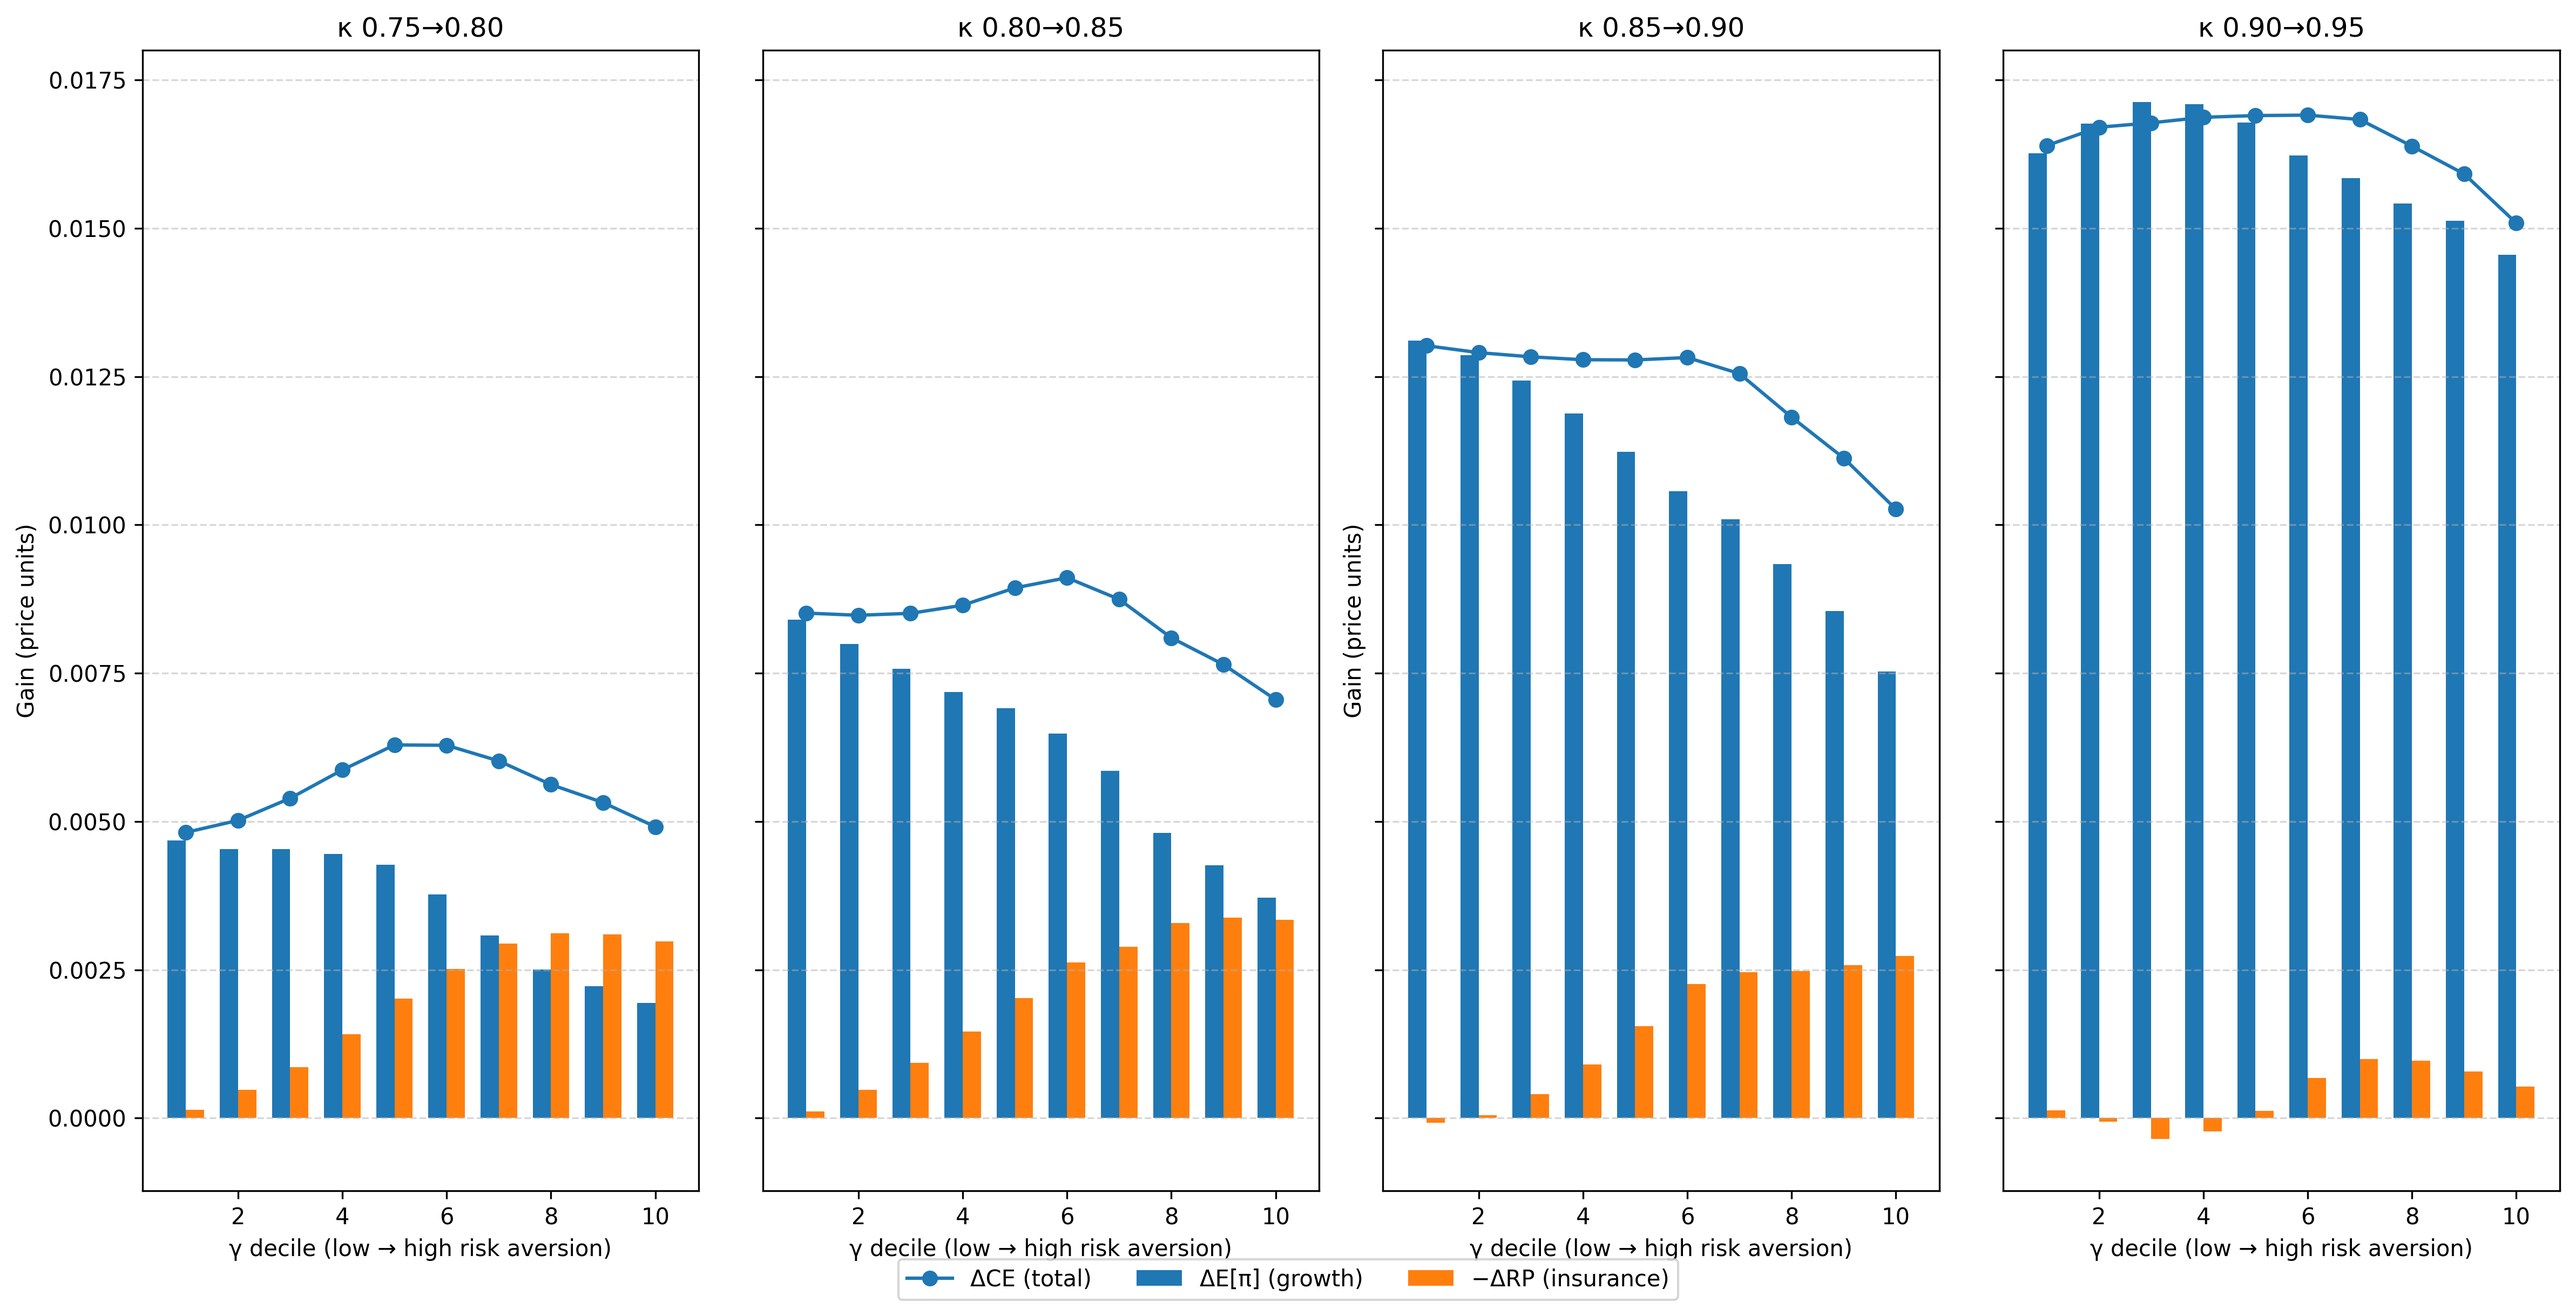
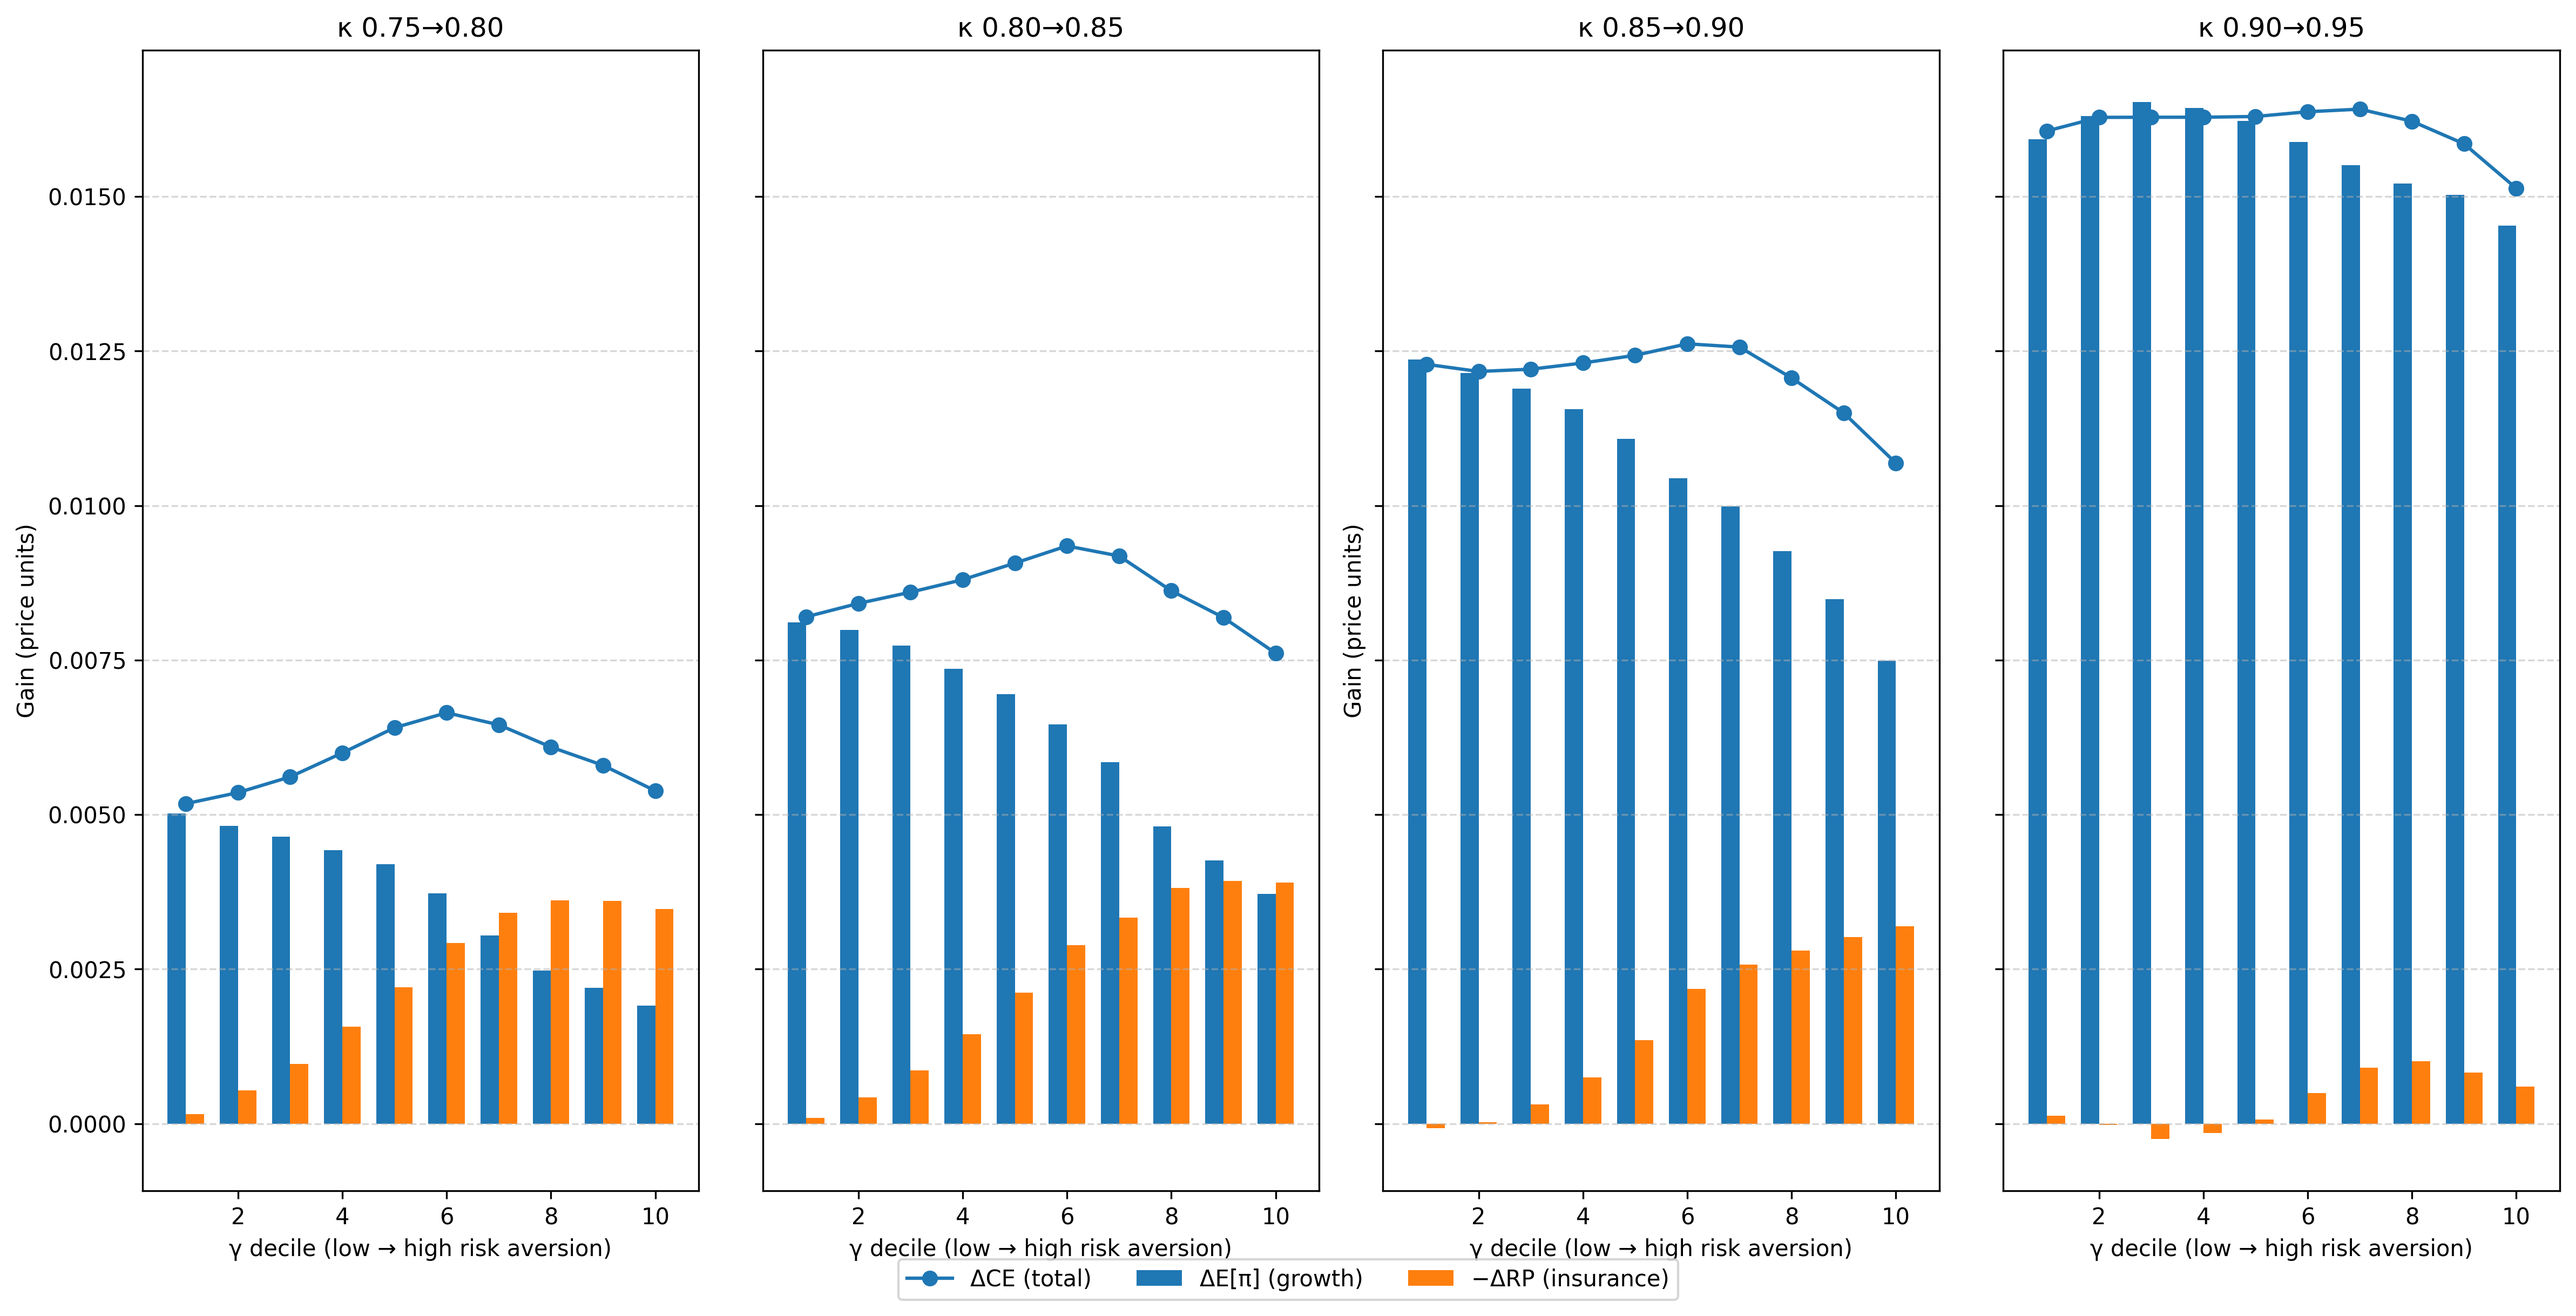
risk aversion added

diff --git a/code/python_theoritical_model/storage_subsidy_income_gain(with_total_storage_share).py b/code/python_theoritical_model/storage_subsidy_income_gain(with_total_storage_share).py
@@ -4,13 +4,13 @@
 Rows:     κ in {0.95, 0.90, 0.85, 0.80} (top -> bottom)
 Columns:  Beta variance σ² in {0.05, 0.10, 0.15, 0.20} (left -> right)
 
-Within each subplot:
-- Solid line (left y-axis): % mean income gain vs no-storage (village average, heterogeneous γ)
-- Dashed line (left y-axis): % mean income gain if all farmers were risk-neutral (γ=0)
-- Histogram bars (right y-axis): Total Storage Share = sum_i s_i^* (0..100) under heterogeneous γ
+Within each subplot (left y-axis only):
+- Black solid:   % mean income gain (village avg) with γ_i ~ Unif[0,10]
+- Blue dashed:   % mean income gain (village avg) with γ_i ~ Unif[0,5]
+- Light-blue -. : % mean income gain if all farmers were risk-neutral (γ=0)
 
 Simulation:
-- R = 400 worlds; N = 100 farmers; γ ~ Beta(1,5) scaled to [0,10]
+- R = 20000 worlds; N = 100 farmers
 - Strict feasibility: Beta(μ, σ²) only when σ² < μ(1-μ)
 """
 
@@ -40,20 +40,24 @@ os.makedirs(target_dir, exist_ok=True)
 # -----------------------------
 REUSE_WORLDS = True
 DPI = 300
-FIG_PATH = os.path.join(target_dir, "gainpct_grid_4x4_zero_gap_total_storage_with_RN.png")
+FIG_PATH = os.path.join(
+    target_dir,
+    "gainpct_grid_4x4_zero_gap_three_curves.png"
+)
 
 rng = np.random.default_rng(314)
 
 # Farmers & worlds
 N = 100
-gammas = rng.uniform(0.0, 10.0, size=N); gammas.sort()
-# gammas = 10.0 * rng.beta(1, 5, size=N); gammas.sort()  # heterogeneous risk aversion
+# Two heterogeneous γ draws (fixed across panels for comparability)
+gammas_10 = rng.uniform(0.0, 10.0, size=N); gammas_10.sort()
+gammas_5  = rng.uniform(0.0,  5.0, size=N); gammas_5.sort()
 
 R = 20000  # increase for smoother curves
 
 # s*(θ1,γ) interpolation grid
 theta1_grid = np.linspace(0.01, 0.99, 24)
-gamma_grid  = np.linspace(0.0, 10.0, 24)
+gamma_grid  = np.linspace(0.0, 10.0, 24)   # covers both Unif[0,10] and Unif[0,5]
 
 # Quadrature nodes on [0,1] for Eθ2 when solving s*
 nodes, weights = leggauss(12)
@@ -73,9 +77,12 @@ col_base_ranges = {
 }
 
 # Styles
-LINE_STYLE = dict(color="#4D4D4D", marker="o", linewidth=2.0, markersize=3, label="Total gain (heterogeneous γ)")
-LINE_RN_STYLE = dict(color="#1f77b4", linestyle="--", linewidth=2.0, marker=None, label="Risk-neutral gain (γ=0)")
-BAR_TOTAL  = dict(color="#2CA02C", alpha=0.55, label="Total storage share")
+LINE_HET10 = dict(color="#000000", linestyle="-",  marker="o",  linewidth=2.0, markersize=3,
+                  label="Heterogeneous γ ~ Unif[0,10]")
+LINE_HET5  = dict(color="#1f77b4", linestyle="--", marker=None, linewidth=2.0,
+                  label="Heterogeneous γ ~ Unif[0,5]")
+LINE_RN    = dict(color="#6baed6", linestyle="-.", marker=None, linewidth=2.0,
+                  label="Risk-neutral (γ=0)")
 
 # -----------------------------
 # Helpers
@@ -160,15 +167,15 @@ def build_mu1_grid(sigma2):
 # -----------------------------
 # Core computation for ZERO-GAP (μ2 = μ1)
 # -----------------------------
-def compute_zero_gap_gain_and_total_storage(kappa, sigma2, mu1_grid):
+def compute_zero_gap_gains_three_series(kappa, sigma2, mu1_grid, gammas_hi, gammas_lo):
     """
-    For fixed (kappa, sigma2) and μ2=μ1, compute:
-    - total % gain vs no-storage (village mean, heterogeneous γ)
-    - risk-neutral % gain vs no-storage (as-if all farmers had γ=0)
-    - Total Storage Share = E_r[ ∑_i s_i^*(θ1_r, γ_i) ] in [0, 100]
-    Returns (mu_vec, total_pct, rn_pct, total_storage_units).
+    For fixed (kappa, sigma2) and μ2=μ1, compute three gain series:
+    - total_pct_hi : heterogeneous γ ~ Unif[0,10]
+    - total_pct_lo : heterogeneous γ ~ Unif[0,5]
+    - rn_pct       : all farmers risk-neutral (γ=0)
+    Returns (mu_vec, total_pct_hi, total_pct_lo, rn_pct).
     """
-    mu_list, total_list, rn_list, storage_list = [], [], [], []
+    mu_list, hi_list, lo_list, rn_list = [], [], [], []
 
     for mu in mu1_grid:
         ab = alpha_beta_from_strict(mu, sigma2)
@@ -195,10 +202,10 @@ def compute_zero_gap_gain_and_total_storage(kappa, sigma2, mu1_grid):
         p1s = 1.0 / (1.0 + theta1_worlds)
         mean_income_no = float(np.mean(p1s))
 
-        # With storage: compute village-average gain and total storage share
-        total_delta = 0.0
-        total_delta_rn = 0.0
-        total_storage_units = 0.0  # sum_i s_i^* per world, then average
+        # Accumulators
+        total_delta_hi = 0.0  # γ~Unif[0,10]
+        total_delta_lo = 0.0  # γ~Unif[0,5]
+        total_delta_rn = 0.0  # γ=0
 
         for r_idx in range(R):
             t1 = theta1_worlds[r_idx]
@@ -206,36 +213,40 @@ def compute_zero_gap_gain_and_total_storage(kappa, sigma2, mu1_grid):
             p1 = 1.0 / (1.0 + t1)
             p2 = 1.0 / (1.0 + t2)
 
-            # Heterogeneous γ storage vector
-            s_star_vec = interp2_vec(theta1_grid, gamma_grid, s_cache, t1, gammas)
-            incomes = (1.0 - s_star_vec) * p1 + s_star_vec * kappa * p2
-            dy = incomes - p1
-            total_delta += float(np.mean(dy))
-            total_storage_units += float(np.sum(s_star_vec))  # sum_i s_i^*
+            # Heterogeneous γ ~ Unif[0,10]
+            s_star_hi = interp2_vec(theta1_grid, gamma_grid, s_cache, t1, gammas_hi)
+            incomes_hi = (1.0 - s_star_hi) * p1 + s_star_hi * kappa * p2
+            total_delta_hi += float(np.mean(incomes_hi - p1))
 
-            # Risk-neutral (γ=0) benchmark: same prices/world, common s*∈{0,1}
+            # Heterogeneous γ ~ Unif[0,5]
+            s_star_lo = interp2_vec(theta1_grid, gamma_grid, s_cache, t1, gammas_lo)
+            incomes_lo = (1.0 - s_star_lo) * p1 + s_star_lo * kappa * p2
+            total_delta_lo += float(np.mean(incomes_lo - p1))
+
+            # Risk-neutral (γ=0): common s*∈{0,1}
             s_star_rn = solve_s(t1, 0.0, kappa, theta2_nodes, w_nodes)  # scalar 0 or 1
             income_rn = (1.0 - s_star_rn) * p1 + s_star_rn * kappa * p2
-            dy_rn = income_rn - p1
-            total_delta_rn += float(dy_rn)  # identical across farmers
+            total_delta_rn += float(income_rn - p1)
 
-        total_delta /= R
+        # Average across worlds
+        total_delta_hi /= R
+        total_delta_lo /= R
         total_delta_rn /= R
-        total_storage_units /= R  # expected sum in [0, N]; N=100 here
 
-        # Convert to percentage for gains; keep storage in 0..100 units
-        total_pct = 100.0 * total_delta / (mean_income_no + 1e-12)
-        rn_pct = 100.0 * total_delta_rn / (mean_income_no + 1e-12)
+        # Convert to percentage gains
+        pct_hi = 100.0 * total_delta_hi / (mean_income_no + 1e-12)
+        pct_lo = 100.0 * total_delta_lo / (mean_income_no + 1e-12)
+        pct_rn = 100.0 * total_delta_rn / (mean_income_no + 1e-12)
 
         mu_list.append(mu)
-        total_list.append(total_pct)
-        rn_list.append(rn_pct)
-        storage_list.append(total_storage_units)
+        hi_list.append(pct_hi)
+        lo_list.append(pct_lo)
+        rn_list.append(pct_rn)
 
     return (np.array(mu_list),
-            np.array(total_list),
-            np.array(rn_list),
-            np.array(storage_list))
+            np.array(hi_list),
+            np.array(lo_list),
+            np.array(rn_list))
 
 # -----------------------------
 # Build all data then plot
@@ -247,21 +258,20 @@ def run_and_plot():
     for r_idx, kappa in enumerate(kappa_rows):
         for c_idx, sigma2 in enumerate(sigma2_cols):
             mu1_grid = build_mu1_grid(sigma2)
-            mu_vec, total_pct, rn_pct, storage_units = compute_zero_gap_gain_and_total_storage(
-                kappa, sigma2, mu1_grid
+            mu_vec, pct_hi, pct_lo, pct_rn = compute_zero_gap_gains_three_series(
+                kappa, sigma2, mu1_grid, gammas_10, gammas_5
             )
             results[(r_idx, c_idx)] = {
                 "mu": mu_vec,
-                "total": total_pct,       # heterogeneous γ (left axis)
-                "rn": rn_pct,             # risk-neutral γ=0 (left axis)
-                "storage": storage_units  # right axis, 0..100
+                "het10": pct_hi,    # black solid
+                "het5":  pct_lo,    # blue dashed
+                "rn":    pct_rn,    # light-blue dash-dot
             }
-            if total_pct.size > 0:
-                all_gain_values.append(total_pct)
-            if rn_pct.size > 0:
-                all_gain_values.append(rn_pct)
+            for arr in (pct_hi, pct_lo, pct_rn):
+                if arr.size > 0:
+                    all_gain_values.append(arr)
 
-    # Global y-limits for the gain lines (left axis), covering both series
+    # Global y-limits for the gain lines (left axis), covering all series
     if len(all_gain_values) > 0:
         all_gains = np.concatenate(all_gain_values)
         y_lo, y_hi = float(np.min(all_gains)), float(np.max(all_gains))
@@ -283,21 +293,17 @@ def run_and_plot():
             ax = axes[r_idx, c_idx]
             data = results[(r_idx, c_idx)]
             mu = data["mu"]
-            total = data["total"]
-            rn = data["rn"]
-            storage_units = data["storage"]
+            het10 = data["het10"]
+            het5  = data["het5"]
+            rn    = data["rn"]
 
-            # Left axis: gain lines
             ax.set_xlim(0.05, 0.95)
             ax.set_ylim(*y_lim)
-            ax.plot(mu, total, **LINE_STYLE, zorder=3)
-            ax.plot(mu, rn, **LINE_RN_STYLE, zorder=3)
 
-            # Right axis: total storage share bars (0..100) under heterogeneous γ
-            ax2 = ax.twinx()
-            ax2.set_ylim(0.0, 100.0)
-            barw = 0.02
-            ax2.bar(mu, storage_units, width=barw, **BAR_TOTAL, zorder=2)
+            # Three curves
+            ax.plot(mu, het10, **LINE_HET10, zorder=3)
+            ax.plot(mu, het5,  **LINE_HET5,  zorder=3)
+            ax.plot(mu, rn,    **LINE_RN,    zorder=3)
 
             # Titles & labels
             if r_idx == 0:
@@ -309,31 +315,26 @@ def run_and_plot():
                 ax.set_ylabel("")
             ax.set_xlabel(r"$\mu_1$ (mean of $\theta_1$; $\mu_2=\mu_1$)", fontsize=9)
 
-            # Right-axis label shown on outermost column only
-            if c_idx == len(sigma2_cols) - 1:
-                ax2.set_ylabel("Total storage share (0–100)", fontsize=10)
-            else:
-                ax2.set_yticklabels([])
-
             ax.grid(True, alpha=0.35, linewidth=0.7)
 
     # Figure legend
     legend_handles = [
-        Line2D([0], [0], **{k: LINE_STYLE[k] for k in ["color", "marker", "linewidth", "markersize"]},
-               label="Total gain (heterogeneous γ)"),
-        Line2D([0], [0], **{k: LINE_RN_STYLE[k] for k in ["color", "linestyle", "linewidth"]},
-               label="Risk-neutral gain (γ=0)"),
-        Line2D([0], [0], color=BAR_TOTAL["color"], linewidth=8, alpha=BAR_TOTAL["alpha"],
-               label="Total storage share (right axis)"),
+        Line2D([0], [0],
+               **{k: LINE_HET10[k] for k in ["color", "linestyle", "marker", "linewidth", "markersize"]}),
+        Line2D([0], [0],
+               **{k: LINE_HET5[k] for k in ["color", "linestyle", "linewidth"]}),
+        Line2D([0], [0],
+               **{k: LINE_RN[k] for k in ["color", "linestyle", "linewidth"]}),
     ]
 
     fig.suptitle(
         "% Mean Income Gain vs No-Storage (μ2 = μ1)\n"
-        "Rows: κ ∈ {0.95, 0.90, 0.85, 0.80}; Cols: Var(θ) = {0.02, 0.05, 0.10, 0.15}",
+        "Rows: κ ∈ {0.95, 0.90, 0.85, 0.80}; Cols: Var(θ) = {0.05, 0.10, 0.15, 0.20}",
         fontsize=15, y=0.95
     )
     fig.legend(
         handles=legend_handles,
+        labels=[LINE_HET10["label"], LINE_HET5["label"], LINE_RN["label"]],
         loc="upper center",
         bbox_to_anchor=(0.5, 0.905),
         ncols=3,
@@ -344,9 +345,9 @@ def run_and_plot():
         borderpad=0.6
     )
 
-    footer = (f"N={N} farmers; R={R} worlds; γ~Unif[0,10]; "
-              "RN line treats all farmers as γ=0; "
-              "Total storage share = E_r[∑ s_i^*] in 0..100.")
+    footer = (f"N={N} farmers; R={R} worlds; "
+              "Heterogeneous curves use fixed γ samples: Unif[0,10] and Unif[0,5]; "
+              "RN curve treats all farmers as γ=0.")
     fig.text(0.5, 0.018, footer, ha="center", va="center", fontsize=11.5)
 
     fig.tight_layout(rect=[0.04, 0.06, 0.98, 0.88])

diff --git a/code/python_theoritical_model/storage_subsidy_gain_decomposition.py b/code/python_theoritical_model/storage_subsidy_gain_decomposition.py
@@ -35,10 +35,11 @@ mu_grid = np.arange(0.15, 0.86, 0.05)
 sigma2 = 0.10
 N = 100
 gammas = rng.uniform(0, 10, size=N); gammas.sort()
+# gammas = 10.0 * rng.beta(1, 5, size=N); gammas.sort()
 deciles = pd.qcut(gammas, 10, labels=False)  # 0..9
 kappa_scenarios = [0.75, 0.80, 0.85, 0.90, 0.95]
 kappa_pairs = [(0.75, 0.80), (0.80, 0.85), (0.85, 0.90), (0.90, 0.95)]
-R = 500  # worlds per μ
+R = 5000  # worlds per μ
 # 12-point Gauss-Legendre for accurate inner expectations
 nodes, weights = leggauss(12)
 x_nodes = 0.5*(nodes+1); w_nodes = 0.5*weights
